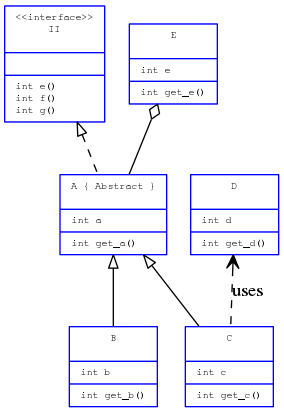
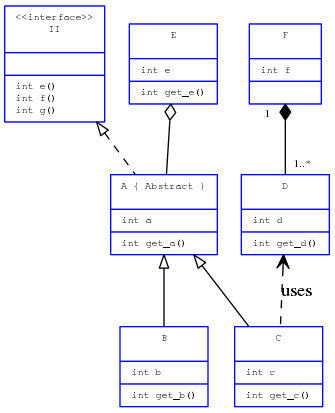
fixed completion issue and added up to date doc

diff --git a/bin/process.py b/bin/process.py
@@ -21,7 +21,7 @@ AUTHORS:
 
 import yaml, sys, getopt, re, subprocess
 
-template_filename = '../template/template.dot'
+template_filename = '../templates/default.dot'
 out_file = None
 out_type = None
 
@@ -48,9 +48,9 @@ class DotStringBuilder(object):
     r"""
     """
     # Retrieves relations
-    RELATION_FORMAT = "edge [\n\ttaillabel = \"%s\"\n\theadlabel = \"%s\"\n  ]\n  node%s -> node%s;\n"
-    CLASS_FORMAT = '  node%s [\n\tlabel = "{%s\n\t|%s|%s}"\n  \n  ]\n\n'
-    INTERFACE_FORMAT = '  node%s [\n\tlabel = "{\<\<interface\>\>\\n%s\n\t|\\l|%s}"\n  ]\n\n'
+    RELATION_FORMAT = '  edge [\n\ttaillabel = "%s"\n\theadlabel = "%s"\n  ]\n  node%s -> node%s;\n'
+    CLASS_FORMAT = '  node%s [ label = "{%s | %s | %s}" ];\n\n'
+    INTERFACE_FORMAT = '  node%s [ label = "{\<\<interface\>\>\\n%s | \\l | %s}" ];\n\n'
 
     def __init__(self, data):
         self._data = data

diff --git a/README.rst b/README.rst
@@ -41,7 +41,7 @@ from ``yauml`` like so::
 An equivalent way of writing this is to use some options available in ``yauml``
 which allows to directly pass ``yauml``'s output to ``dot``::
 
-    yauml -Tpng -o ./example/ex1/1.png ./example/ex1/1.yauml
+    yauml -Tpng -o ./example/ex1/1.png ./example/ex1/1.yaml
 
 Using the default template given with this program, the result
 after passing the output to ``dot`` would be:
@@ -83,10 +83,13 @@ So far, YAUML handles:
     - methods
 - Interfaces
 - Relations
+    - Simple association
     - Inheritance
     - Use
-    - Is part of
+    - Aggregation
+    - Composition
     - Implement
+- Relation multiplicity
 
 A more complete example would look like:
 
